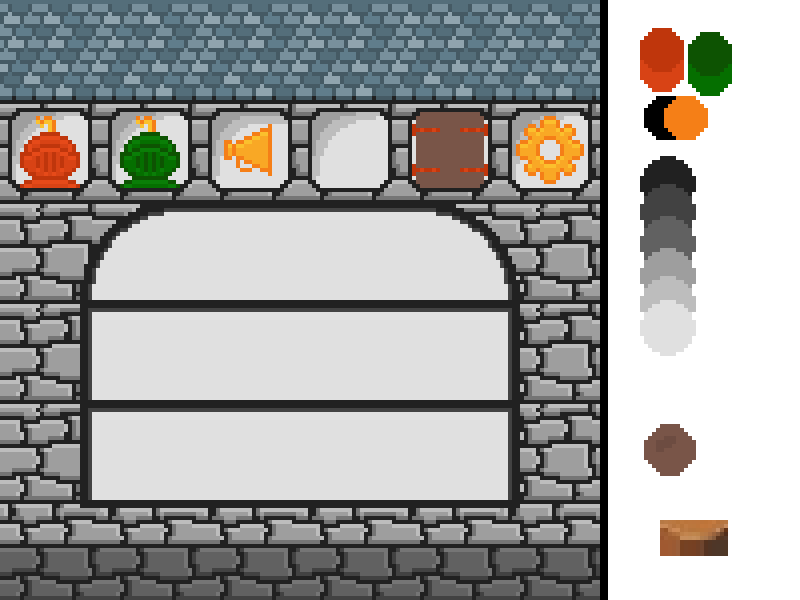
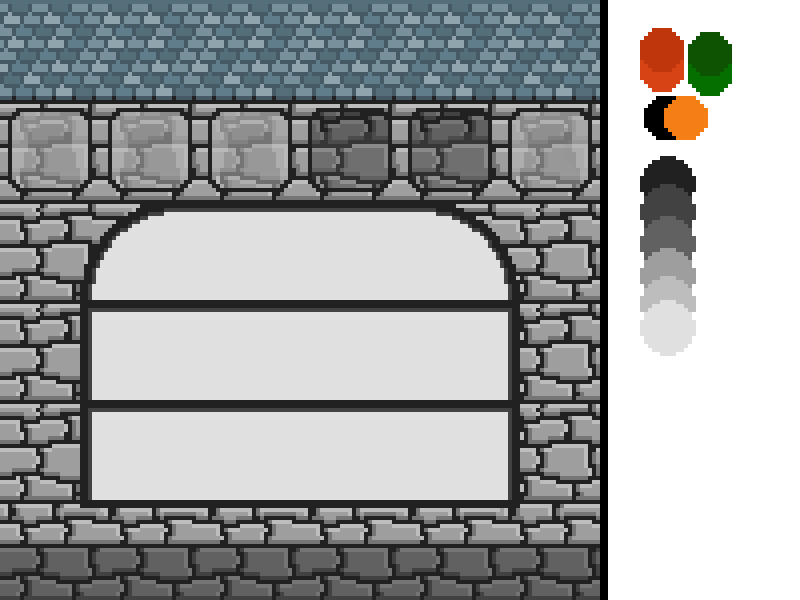
fix castling
fix close swapn pop-up after choice
edit some textures

pieces_move make for king check castling
StandardBoardUI, GameWindow remake to new UI elems (dict)
MainMenuWundow remake to new UI elems (dict) make start_offline button

BaseUI make default size for elems
CellBytton \(-_-)/
PlayButton main menu play buttons

Changed region(s): [[0.0, 0.18, 0.75, 0.33], [0.8125, 0.84, 0.9375, 0.93], [0.7812, 0.69, 0.875, 0.81]]

diff --git a/core/UI/PlayButton.py b/core/UI/PlayButton.py
@@ -1,34 +1,65 @@
 import pygame
-from Source.settings import params
-from core.UI.Button import Button
-from core.textures.Tileset import TileSet
+from core.UI.BaseUI import BaseUI
 
 
 def create_tile_set(game, text):
     rendered_text = game.render_text(text, (251, 192, 45), False)
     rendered_back_text = game.render_text(text, (249, 168, 37), False)
-    surface = pygame.Surface((rendered_text.get_width(), 180))
+    surface = pygame.Surface((rendered_text.get_width(), rendered_text.get_height() + 4))
     surface.set_colorkey((0, 0, 0))
     surface.blit(rendered_text,      (-3, 0))
     surface.blit(rendered_back_text, (-3, 4))
-    surface.blit(rendered_text,      (-3, 62))
-    surface.blit(rendered_back_text, (-3, 64))
-    surface.blit(rendered_text,      (-3, 124))
-    return TileSet(surface, (rendered_text.get_width(), 60))
+    return surface
 
 
-class PlayButton(Button):
-    def __init__(self, window, pos, text, open_window, settings):
-        super().__init__(window, pos, create_tile_set(window.game, text), size=[400, 100])
-        self.open_window = open_window
-        self.settings = settings
+class PlayButton(BaseUI):
+    def __init__(self, window, pos, text: str, on_funk=None, pre_funk=None, size=None):
+        if size is None:
+            size = [400, 100]
+        if type(text) == str:
+            content = create_tile_set(window.game, text)
+        else:
+            content = text
+        super().__init__(window, pos, image=content, size=size)
+        self.y_pos = 0
+        self.pressed = False
+        self.on_funk = on_funk
+        self.pre_funk = pre_funk
+
+    def fixed_update(self):
+        set_point = 0
+        if self.pressed:
+            set_point = 2
+        elif self.hovered:
+            set_point = 4
+        if self.y_pos > set_point:
+            self.y_pos -= self.window.game.delta * 40
+            if self.y_pos < set_point:
+                self.y_pos = set_point
+        elif self.y_pos < set_point:
+            self.y_pos += self.window.game.delta * 60
+            if self.y_pos > set_point:
+                self.y_pos = set_point
+
+    def event(self, event):
+        super().event(event)
+        if event.type == pygame.MOUSEBUTTONDOWN:
+            self.pressed = True
+            self.on_press()
+        elif event.type == pygame.MOUSEBUTTONUP:
+            self.pressed = False
+            if self.check_collide_point(event.pos):
+                self.on_click()
 
     def draw(self, pos=(0, 0)):
         tmp = list(map(lambda x: (x[0] - x[1]) / 2, zip(self.get_size(), self.image.get_size())))
-        pos = [tmp[0] + pos[0], tmp[1] + pos[1]]
+        pos = [tmp[0] + pos[0], tmp[1] + pos[1] - self.y_pos]
         super().draw(pos)
 
     def on_click(self):
-        for key, val in self.settings.items():
-            params[key] = val
-        self.window.game.open_window(self.open_window)
+        if self.on_funk:
+            self.on_funk(self)
+
+    def on_press(self):
+        if self.pre_funk:
+            self.pre_funk(self)

diff --git a/core/windows/MainMenuWindow.py b/core/windows/MainMenuWindow.py
@@ -1,8 +1,16 @@
+from Source.settings import params
 from core.UI.BaseUI import BaseUI
 from core.UI.PlayButton import PlayButton
 from core.UI.AnimatedTorch import AnimatedTorch
 from core.textures.load_image import load_image
+from core.textures.Tileset import TileSet
 from core.windows.Window import Window
+# from core.UI.ChangeWindowButton import ChangeWindowButton
+
+
+def start_offline(self):
+    params["mode"] = "offline"
+    self.window.game.open_window('Game')
 
 
 class MainMenuWindow(Window):
@@ -13,12 +21,21 @@ class MainMenuWindow(Window):
         self.ui = {
             "Lobby": [],
             "Settings": [
-                # ChangeWindowButton(self, (500, 0), TileSet('settings4', (100, 100)), "Game")
+                # ChangeWindowButton(self, (500, 100), TileSet('settings', (100, 100)), "Game")
+                PlayButton(self, (000, 100), TileSet('UserImages', (100, 100))[0, 0], size=(100, 100)),
+                PlayButton(self, (100, 100), TileSet('UserImages', (100, 100))[0, 1], size=(100, 100)),
+                PlayButton(self, (200, 100), TileSet('UserImages', (100, 100))[0, 2], size=(100, 100)),
+                PlayButton(self, (300, 100), TileSet('UserImages', (100, 100))[0, 2], size=(100, 100)),
+                PlayButton(self, (400, 100), TileSet('UserImages', (100, 100))[0, 2], size=(100, 100)),
+                # PlayButton(self, (400, 100), TileSet('settings', (100, 100))[1], size=(100, 100)),
+                PlayButton(self, (500, 100), TileSet('settings', (100, 100))[0], size=(100, 100)),
             ],
             "Play": [
-                PlayButton(self, (100, 200), "онлайн", "Game", {"mode": "online"}),
-                PlayButton(self, (100, 300), "офлайн", "Game", {"mode": "offline"}),
-                PlayButton(self, (100, 400), "туман войны", "Game", {"mode": "fog of war"}),
+                # PlayButton(self, (100, 200), "офлайн"),
+                # PlayButton(self, (100, 300), "войти"),
+                PlayButton(self, (100, 200), "онлайн"),
+                PlayButton(self, (100, 300), "туман войны"),
+                PlayButton(self, (100, 400), "офлайн", on_funk=start_offline),
             ],
             "Decorations": [
                 AnimatedTorch(self, (-10, 300)),

diff --git a/core/windows/GameWidow.py b/core/windows/GameWidow.py
@@ -23,6 +23,8 @@ class GameWindow(Window):
             self.logic_board = LogicBoard(False)
             self.judge = Judge(self, self.logic_board, params["board_name"])
         self.game_board = StandardBoardUI(self, (100, 100), self.judge, self.logic_board)
+        self.ui['pop-up'] = []
+        self.ui['game'] = [self.game_board]
         self.set_active_object(self.game_board)
         logger.info(f"create game with mode {params['mode']}")
         self.connect_to_the_game()
@@ -37,16 +39,6 @@ class GameWindow(Window):
                 self.game.client.sending_to_the_server("ac")
             logger.info(f"connect to game with code {params['code']}")
 
-    def draw(self):
-        self.game_board.draw()
-        for element in self.ui[::-1]:
-            element.draw()
-
-    def update(self):
-        self.game_board.update()
-        if self.active:
-            self.active.update()
-
     def events(self, event):
         # self.active.event(event)
         if event.type == pygame.MOUSEBUTTONDOWN:
@@ -56,20 +48,3 @@ class GameWindow(Window):
         if event.type == pygame.MOUSEMOTION:
             self.check_hover(event)
         self.game_board.event(event)
-
-    def set_active(self, event):
-        for element in self.ui:
-            if element.check_collide_point(event.pos):
-                self.set_active_object(element)
-                break
-
-    def fixed_update(self):
-        self.game_board.fixed_update()
-        for element in self.ui:
-            element.fixed_update()
-
-    def check_hover(self, event):
-        pos = event.pos
-        for element in self.ui:
-            if element.check_collide_point(pos):
-                pos = [-1, -1]

diff --git a/core/UI/SwapPopUp.py b/core/UI/SwapPopUp.py
@@ -8,21 +8,33 @@ from loguru import logger
 def swap_to_queen(button):
     button.window.judge.on_swap("Q")
     logger.info("on swap user choice Queen (Q)")
+    for pop_up in button.window.ui["pop-up"]:
+        if type(pop_up) == SwapPopUp:
+            button.window.ui['pop-up'].remove(pop_up)
 
 
 def swap_to_knight(button):
     button.window.judge.on_swap("N")
     logger.info("on swap user choice Horse (N)")
+    for pop_up in button.window.ui["pop-up"]:
+        if type(pop_up) == SwapPopUp:
+            button.window.ui['pop-up'].remove(pop_up)
 
 
 def swap_to_rook(button):
     button.window.judge.on_swap("R")
     logger.info("on swap user choice Rook (R)")
+    for pop_up in button.window.ui["pop-up"]:
+        if type(pop_up) == SwapPopUp:
+            button.window.ui['pop-up'].remove(pop_up)
 
 
 def swap_to_bishop(button):
     button.window.judge.on_swap("B")
     logger.info("on swap user choice Elephant (B)")
+    for pop_up in button.window.ui["pop-up"]:
+        if type(pop_up) == SwapPopUp:
+            button.window.ui['pop-up'].remove(pop_up)
 
 
 class SwapPopUp(PopUp):

diff --git a/core/UI/BaseUI.py b/core/UI/BaseUI.py
@@ -2,7 +2,7 @@ import pygame
 
 
 class BaseUI:
-    def __init__(self, window, pos, childs=[], image=None, un_active_on_mouse_up=True, size=(10, 10)):
+    def __init__(self, window, pos, childs=[], image=None, un_active_on_mouse_up=True, size=(0, 0)):
         self.window = window
         self.pos = pos
         self.child = []
@@ -47,7 +47,7 @@ class BaseUI:
             pos = [pos[0] - self.pos[0] - self.parent.pos[0], pos[1] - self.pos[1] - self.parent.pos[1]]
         else:
             pos = [pos[0] - self.pos[0], pos[1] - self.pos[1]]
-        if self.image:
+        if self.__size == (0, 0):
             self.hovered = 0 <= pos[0] <= self.image.get_width() and 0 <= pos[1] <= self.image.get_height()
         else:
             self.hovered = 0 <= pos[0] <= self.__size[0] and 0 <= pos[1] <= self.__size[1]

diff --git a/core/windows/TestWindow.py b/core/windows/TestWindow.py
@@ -4,6 +4,7 @@ from core.UI.InputField import InputField
 from core.UI.InputFieldPopUp import InputFieldPopUp
 from core.UI.PlayButton import PlayButton
 from core.UI.ReadyButton import ReadyButton
+from core.UI.PlayerTypeSelect import PlayerTypeSelect
 from core.UI.SwapPopUp import SwapPopUp
 from core.windows.Window import Window
 
@@ -23,6 +24,7 @@ class TestWindow(Window):
                 AnimatedTorch(self, (0, 100)),
                 DefaultButton(self, (10, 40), "войти", 3),
                 InputField(self, (10, 10), "C O D E", [(0, 0, 0), (150, 150, 150)], ""),
+                PlayerTypeSelect(self, (100, 100), 0, True),
                 # ReadyButton(self, (10, 85)),
                 # PlayButton(self, (10, 190), "онлайн", "Game", {"mode": "online"}),
 

diff --git a/core/UI/StandardBoardUI.py b/core/UI/StandardBoardUI.py
@@ -172,11 +172,11 @@ class StandardBoardUI(BaseUI):
                 self.move_percent = 0
 
         if self.animation_step == 3:
-            for elem in self.window.ui:
+            for elem in self.window.ui['pop-up']:
                 if type(elem) == SwapPopUp:
                     break
             else:
-                self.window.ui.append(SwapPopUp(self.window, (250, 10), self.judge.get_color() % 2))
+                self.window.ui['pop-up'].append(SwapPopUp(self.window, (250, 10), self.judge.get_color() % 2))
 
         if self.animation_step == 5:
             self.rotation -= (1 + 0.25 * cos(2*pi * self.rotation - pi)) * self.game.delta

diff --git a/core/Game.py b/core/Game.py
@@ -62,8 +62,8 @@ class Game:
         self.window = None
         self.text_version = self.render_text('0.1.5 Alpha', (249, 168, 37), True)
         # server
-        self.client = Client(set_random_nickname(), params["online_host_ip"], params["online_host_port"], self)
-        self.client.run()
+        # self.client = Client(set_random_nickname(), params["online_host_ip"], params["online_host_port"], self)
+        # self.client.run()
 
         # open start window
         self.open_window(params["start_window"])

diff --git a/core/logic/pieces_move.py b/core/logic/pieces_move.py
@@ -54,6 +54,8 @@ def king_path(self, pos):
         else:
             return [(5, self.r, 0), (6, self.r, 0)]
     # castling check
+    if self.i and self.cr == [[4, 0], [4, 7]][self.s]:
+        return True
     # figure = self.get_piece(pos)
     # if figure and self.i and figure.t == "R" and figure.i and figure.s == self.s:
     #     return  # self.check_castling(figure, pos)

diff --git a/core/online/logic/Board.py b/core/online/logic/Board.py
@@ -40,6 +40,8 @@ class LogicBoard:
                         self.step += 1
                     self.last_moved = piece
                     return True
+                self.load_board(line_board)
+                return False
 
             if not self.check_shah(self.step % 2):
                 # print("PAT IS", self.check_pat((self.step + 1) % 2))

diff --git a/Source/animations.py b/Source/animations.py
@@ -10,4 +10,10 @@ fog = {
     "bottom":       ((0, 8), (1, 8)),
 }
 
+bg_light_anim = {
+    "in": (0.05, (0, 1, 2, 3, 4, 5)),
+    "hovered": (0.1, (4, 3, 4, 5)),
+    "out": (0.05, (5, 4, 3, 2, 1, 0)),
+}
+
 test_button = ((1, 0), (0, 0), (2, 0))
